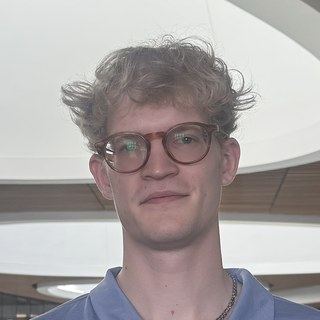
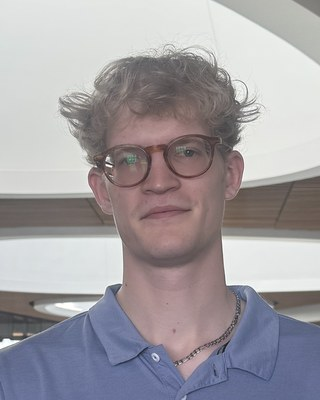
Masthead portrait is a 4:5 rectangle, not a circle
Ian, 2026-08-27: "I don't want a circle I want a square or portrait shape
only." This supersedes the brand order, which specified a "small circle"
and shipped border-radius: 50% on .masthead img.

  tokens.css      62x78 at border-radius 4px, was 62x62 at 50%
  ian-byline.jpg  recropped 4:5 from the same source, 320x400, 20 KB
  index.html      the img height attribute follows

4:5 is the byline shape and keeps the head fully in frame with air above.
The 4px radius reads as a rectangle rather than rounding the silhouette.

Two new gate assertions, because a preference the gate does not check is a
preference the next pass silently reverts:

  1b  .masthead img border-radius is a plain px value of 8 or less, so a
      percentage or a pill radius fails
  6   the portrait is square or portrait, never landscape, and not a tall
      strip either

The selftest proves both by reintroducing the circle and the pill radius,
and by patching the frame header to landscape and to a strip. 30 cases,
all red.

Gate is green.

Claude-Session: https://claude.ai/code/session_01FeGYULXnVkNnruggvsXH4v

diff --git a/assets/css/tokens.css b/assets/css/tokens.css
@@ -89,12 +89,19 @@ body {
   line-height: 1.62;
 }
 
-/* The masthead: portrait as a small circle beside the name, role line beneath.
- * Untreated photograph, always. No filter, tint, or blend on this image. */
+/* The masthead: portrait beside the name, role line beneath.
+ * Untreated photograph, always. No filter, tint, or blend on this image.
+ *
+ * SQUARE OR PORTRAIT ONLY, NEVER A CIRCLE (Ian, 2026-08-27: "I don't want a
+ * circle I want a square or portrait shape only"). This supersedes the
+ * "small circle" in the 2026-08-27 brand order, which shipped
+ * border-radius: 50% here. 4:5 is the byline shape; the corner radius is
+ * small enough to read as a rectangle rather than rounding the silhouette.
+ * Do not reintroduce a round or pill radius on this image. */
 .masthead { display: flex; align-items: center; gap: 15px; }
 .masthead img {
-  width: 62px; height: 62px; flex: 0 0 62px;
-  border-radius: 50%; object-fit: cover;
+  width: 62px; height: 78px; flex: 0 0 62px;
+  border-radius: 4px; object-fit: cover;
   border: 1px solid var(--rule);
 }
 .masthead .name {

diff --git a/index.html b/index.html
@@ -36,7 +36,7 @@
 <section class="hero wrap">
 <p class="eyebrow">Northeastern University &middot; Boston, MA</p>
 <div class="masthead">
-<img src="/assets/img/ian-byline.jpg" alt="Ian Solberg" width="62" height="62">
+<img src="/assets/img/ian-byline.jpg" alt="Ian Solberg" width="62" height="78">
 <div>
 <h1 class="name">Ian Solberg</h1>
 <div class="role">Data science &amp; economics</div>

diff --git a/tools/site-brand-check.py b/tools/site-brand-check.py
@@ -247,6 +247,22 @@ def check_tokens() -> None:
     if declared(light, "--accent") == declared(dark, "--accent"):
         fail("1", "light mode reuses the dark accent; #ff7a1a is 2.42:1 on paper")
 
+    # 1b: the masthead portrait is square or portrait, never a circle
+    # (Ian, 2026-08-27: "I don't want a circle I want a square or portrait
+    # shape only"). The order as written shipped border-radius: 50% here, so
+    # this is the assertion that stops it coming back.
+    radius = declared(blocks.get(".masthead img", ""), "border-radius")
+    if radius is None:
+        fail("1b", "`.masthead img` declares no border-radius")
+    elif "%" in radius or "50%" in radius:
+        fail("1b", f"`.masthead img` border-radius is {radius!r}; a percentage rounds it to a circle")
+    else:
+        px = re.match(r"([\d.]+)px$", radius)
+        if not px:
+            fail("1b", f"`.masthead img` border-radius {radius!r} is not a plain px value")
+        elif float(px.group(1)) > 8:
+            fail("1b", f"`.masthead img` border-radius is {radius}, too round for a square shape")
+
 
 # --------------------------------------------------------------------------- #
 # assertion 6: the portrait
@@ -322,8 +338,11 @@ def check_portrait() -> None:
     # "Readable JPEG" is not enough on its own. A raw phone photo passes that and
     # is still wrong here: it arrives sideways with the rotation only in EXIF, and
     # weighs megabytes for a 62px circle. All three were true of the first upload.
-    if abs(w - h) > max(w, h) * 0.02:
-        fail("6", f"{PORTRAIT} is {w}x{h}; the masthead crops to a circle, so it must be square")
+    # Square or portrait only, never landscape (Ian, 2026-08-27).
+    if w > h * 1.02:
+        fail("6", f"{PORTRAIT} is {w}x{h}, landscape; it must be square or portrait")
+    if h > w * 1.6:
+        fail("6", f"{PORTRAIT} is {w}x{h}, too tall for the masthead; keep it at or under 8:5")
     if max(w, h) > 1024:
         fail("6", f"{PORTRAIT} is {w}x{h}, oversized for a 62px avatar; resize to <=1024")
     if kb > 200:

diff --git a/tools/site-brand-check-selftest.py b/tools/site-brand-check-selftest.py
@@ -127,6 +127,16 @@ CASES = [
     ("1  tokens.css deleted", "1",
      lambda: delete("assets/css/tokens.css")),
 
+    # assertion 1b, Ian's correction: square or portrait, never a circle
+    ("1b the masthead portrait is rounded to a circle", "1b",
+     lambda: edit_text("assets/css/tokens.css",
+                       lambda s: s.replace("border-radius: 4px; object-fit: cover;",
+                                           "border-radius: 50%; object-fit: cover;"))),
+    ("1b the masthead portrait gets a pill radius", "1b",
+     lambda: edit_text("assets/css/tokens.css",
+                       lambda s: s.replace("border-radius: 4px; object-fit: cover;",
+                                           "border-radius: 40px; object-fit: cover;"))),
+
     # assertion 2
     ("2  stylesheet links reordered", "2",
      lambda: edit_text("about/index.html",
@@ -214,8 +224,10 @@ CASES = [
      lambda: delete("assets/img/ian-byline.jpg")),
     ("6  the portrait is not a JPEG", "6",
      lambda: corrupt("assets/img/ian-byline.jpg")),
-    ("6  the portrait is not square", "6",
+    ("6  the portrait is landscape", "6",
      lambda: repatch_portrait(lambda raw: with_declared_size(raw, 400, 320))),
+    ("6  the portrait is a tall strip", "6",
+     lambda: repatch_portrait(lambda raw: with_declared_size(raw, 200, 600))),
     ("6  the portrait is a full-size phone photo", "6",
      lambda: repatch_portrait(lambda raw: with_declared_size(raw, 5712, 4284))),
     ("6  the portrait weighs megabytes", "6",
